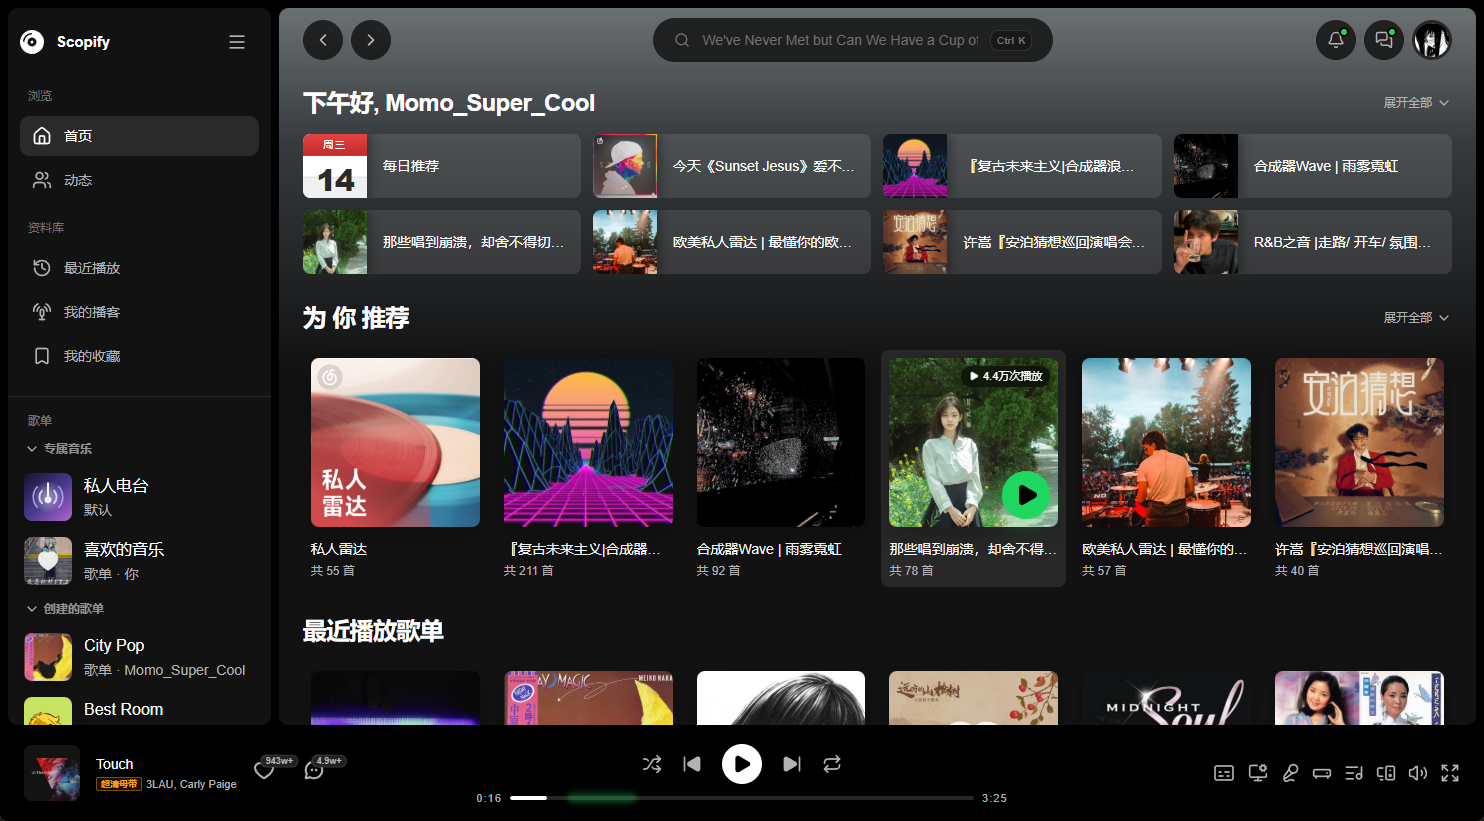
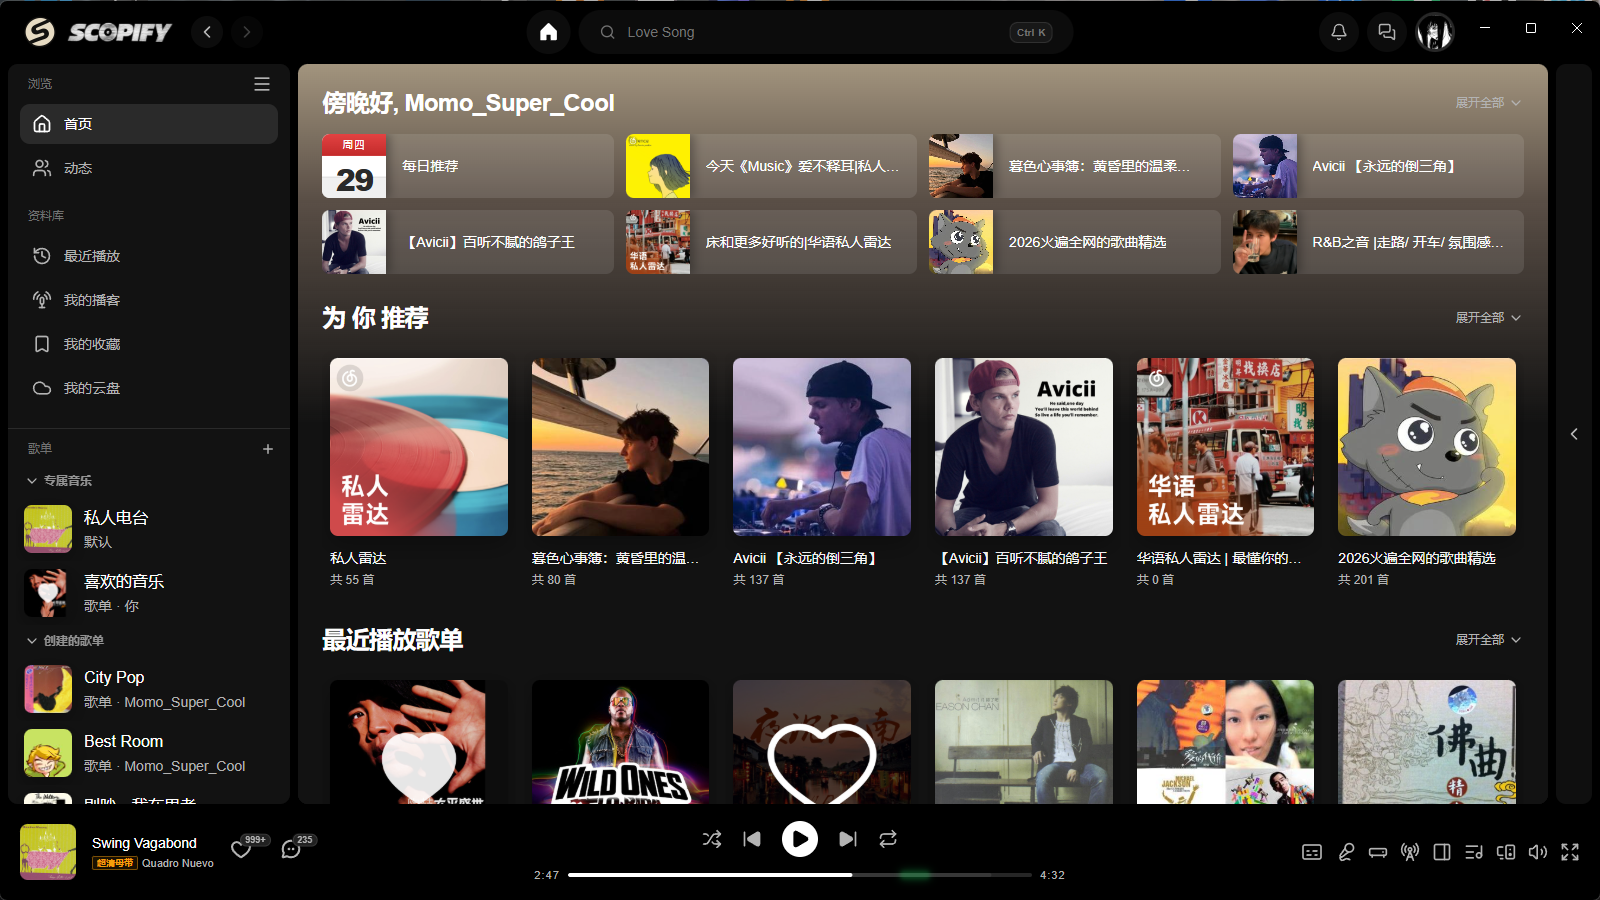
docs(landing): 落地页主图换成最新的首页截图
- [Chore] assets/features/main.png 换成 1600×900 的新版首页（带窗口控制按钮、
  右侧折叠栏、3 列推荐的每日推荐区）
- [Fix] LANDING_COVER_CROPS 按新图重新量过：6 张封面，x 为 330/532/733/935/1137/1338，
  y 358，边长 178，首屏迷你播放器与主题预览里的封面仍裁自同一行

diff --git a/repo/frontend/apps/docs/constants/marketing.ts b/repo/frontend/apps/docs/constants/marketing.ts
@@ -254,10 +254,10 @@ export const LANDING_MAIN_SCREENSHOT: LandingScreenshot = {
   src: mainScreenshot,
 };
 
-/** `main.png`「为你推荐」一行里的六张真实专辑封面。 */
+/** `main.png`（1600×900）「为你推荐」一行里的六张真实专辑封面。 */
 export const LANDING_COVER_CROPS: readonly LandingCoverCrop[] = [
-  311, 504, 697, 889, 1082, 1275,
-].map((x) => ({ x, y: 358, size: 169 }));
+  330, 532, 733, 935, 1137, 1338,
+].map((x) => ({ x, y: 358, size: 178 }));
 
 /** 底片墙与首屏海报墙共用的真实界面截图。 */
 export const LANDING_FILM_SCREENSHOTS: readonly LandingScreenshot[] = [
